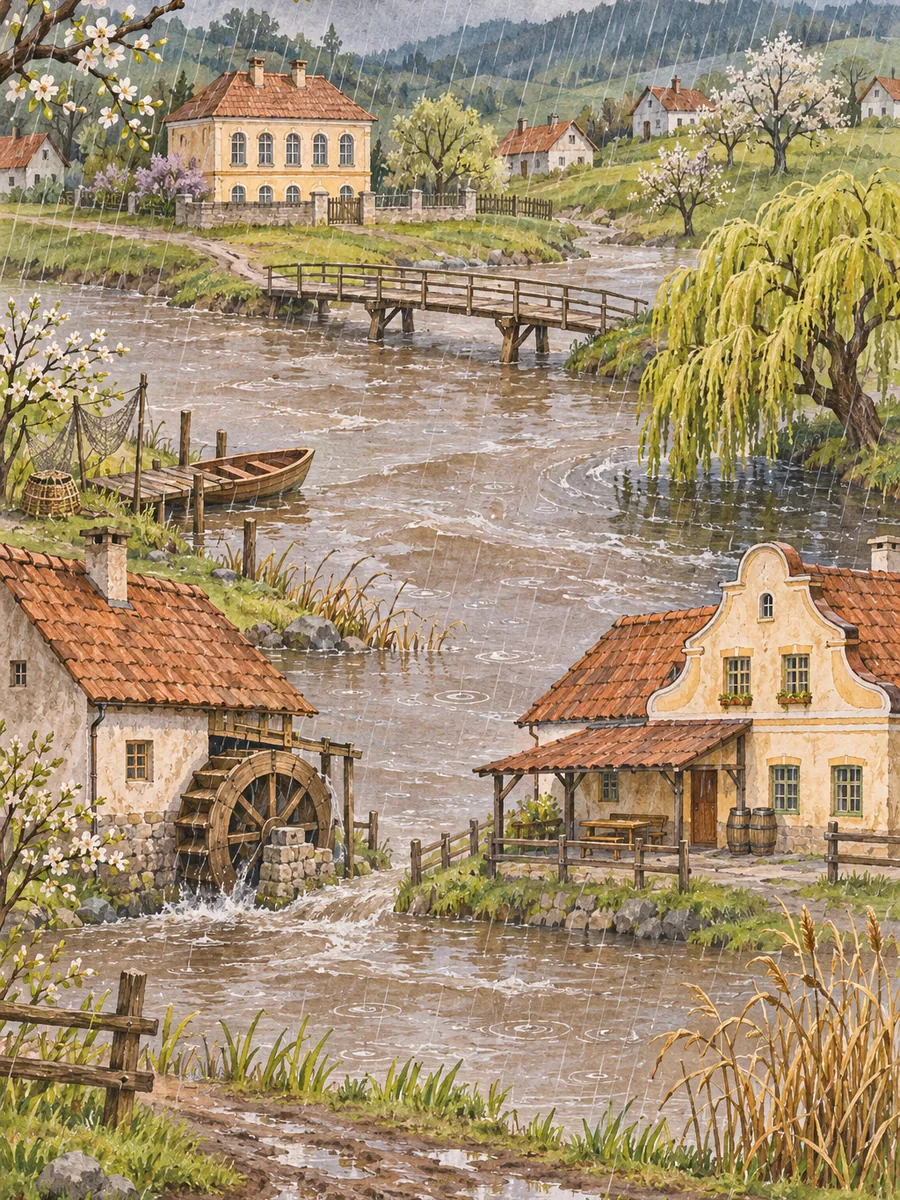
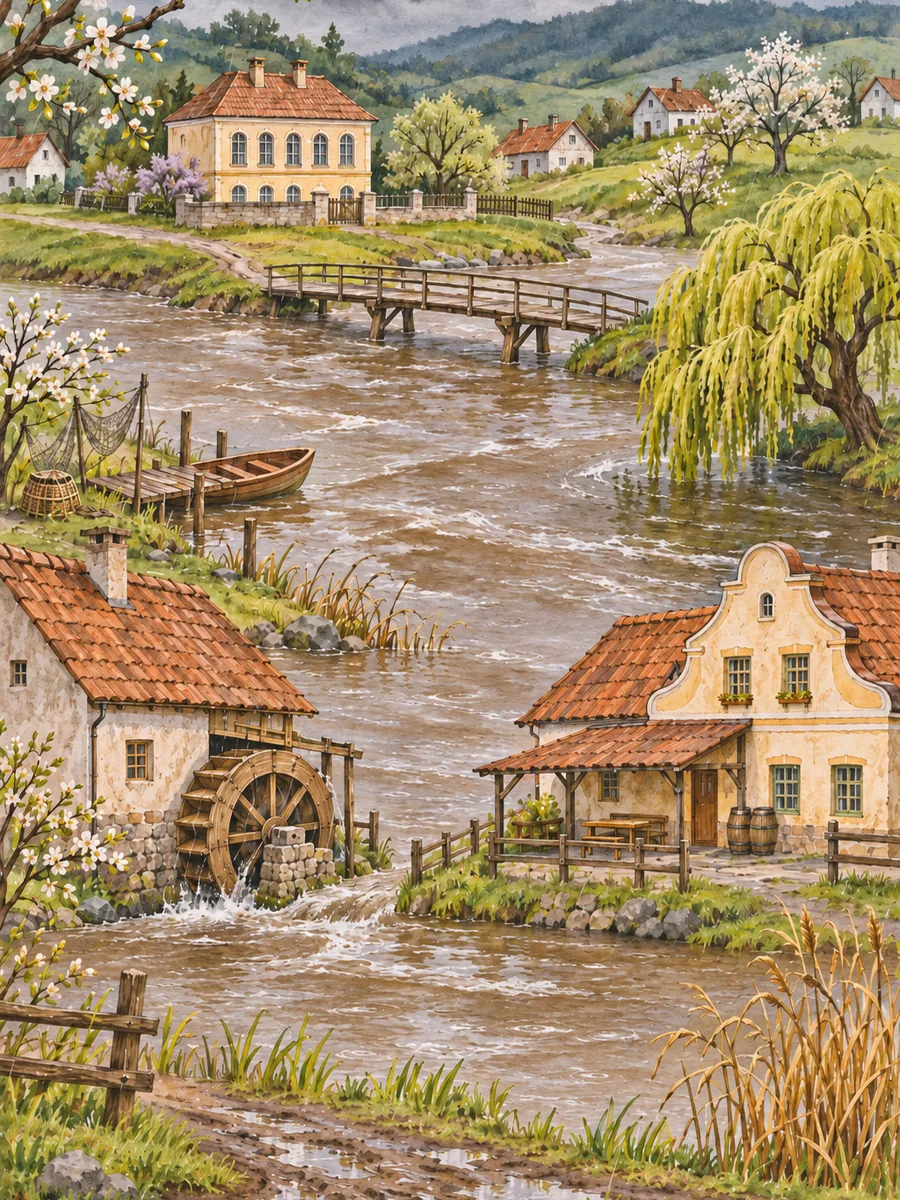
Painted story states for six villages, scorched smithy layer
Converts the images that replace the interim drawings found by the
appearance audit: new mill sails in Bezvětří, the rain-free Brodek scene
with three flood levels, the hot and the cold kettle in Čertovina, the
stone bridge in Cylindrov, the awake student in Faustův dům, and the fire
spreading roof to roof, the open fire station and the extinguished smithy
portrait in Floriánov. The replaced interim drawings are removed.

After the fire is put out, the Floriánov portrait shows a burnt smithy
but the scene showed an intact roof, so a new layer kovarna_ohorela
(condition uhaseno) adds a scorched roof. It is hidden in the painted
scene until kovarna_ohorela.png arrives.

Claude-Session: https://claude.ai/code/session_01GNaERCVCMNxDha3AsCqcsP

diff --git a/obrazky_vstup/florianov/prompty.md b/obrazky_vstup/florianov/prompty.md
@@ -14,9 +14,9 @@ Obec je na trase 4. V. Postup je stejný jako u Lhotky a podrobně je popsaný v
 
 ## Soubory
 
-Vygeneruj (6): `kovarna_hori.png`, `truhlarna_hori.png`, `chalupa_hori.png`, `fara_hori.png`, `zbrojnice_otevrena.png`, `kovarna_uhasena.png`
+Vygeneruj (1): `kovarna_ohorela.png`
 
-Už máš vygenerované (11): `pozadi.png`, `kovarna.png`, `truhlarna.png`, `chalupa.png`, `fara.png`, `studna.png`, `zvonice.png`, `florian.png`, `starosta.png`, `velitel.png`, `vedro.png`
+Už máš vygenerované (17): `pozadi.png`, `kovarna_hori.png`, `truhlarna_hori.png`, `chalupa_hori.png`, `fara_hori.png`, `zbrojnice_otevrena.png`, `kovarna.png`, `kovarna_uhasena.png`, `truhlarna.png`, `chalupa.png`, `fara.png`, `studna.png`, `zvonice.png`, `florian.png`, `starosta.png`, `velitel.png`, `vedro.png`
 
 Už jsou ve složce, zkopírované z jiných obcí (2): `dopis_starosta.png`, `klic.png`
 
@@ -41,6 +41,13 @@ Ke každému z těchhle promptů přilož svůj `pozadi.png` z téhle složky. C
 
 ```
 Edit the attached picture. Keep everything exactly the same: the composition, the style, the colours, the light and the position and size of every object. Change only this: the smithy at the top left is on fire: bright orange flames burst from its roof and thick grey smoke rises into the sky. Everything else stays as it is.
+Keep the same portrait size and aspect ratio. No people and no animals. No text, no letters, no numbers, no signature, no frame.
+```
+
+### kovarna_ohorela.png
+
+```
+Edit the attached picture. Keep everything exactly the same: the composition, the style, the colours, the light and the position and size of every object. Change only this: the fire at the smithy at the top left has just been put out: its roof is scorched black with some tiles missing and charred rafters showing, the walls under the roof are sooty and wet, a thin wisp of grey smoke still rises. Everything else stays as it is.
 Keep the same portrait size and aspect ratio. No people and no animals. No text, no letters, no numbers, no signature, no frame.
 ```
 

diff --git a/grafika.md b/grafika.md
@@ -35,14 +35,9 @@ Galerii všech vzhledů kreslených obcí vyrobí `node nastroje/stavy.mjs <obec
 
 ### Doplnit do hotových obcí
 
-Kontrola všech vzhledů (listopad 2026) ukázala místa, kde scéna neodpovídá příběhu. Prompty jsou v `prompty.md` jednotlivých obcí, do té doby hra ukazuje náhradní kresbu nebo odznak.
+Kontrola všech vzhledů (listopad 2026) ukázala místa, kde scéna neodpovídá příběhu. Prompty jsou v `prompty.md` jednotlivých obcí, do té doby hra ukazuje náhradní kresbu nebo odznak. Bezvětří, Brodek, Čertovina, Cylindrov, Faustův dům a Floriánov už jsou doplněné. Zbývá:
 
-- Bezvětří: `lopatky.png` (mlýn s novými lopatkami).
-- Brodek: napřed oprava `pozadi.png` (scéna bez namalovaného deště), pak z opravené scény `voda1.png`, `voda2.png`, `voda3.png` (stoupající povodeň).
-- Čertovina pod Kotlem: `plamen.png` (rozpálený kotel), `kotel_studeny.png` (vyhaslý kotel s jinovatkou).
-- Cylindrov: `most_stoji.png` (postavený kamenný most).
-- Faustův dům: `student_vzhuru.png` (probuzený student od sazí).
-- Floriánov: `kovarna_hori.png`, `truhlarna_hori.png`, `chalupa_hori.png`, `fara_hori.png` (požár přeskakuje), `zbrojnice_otevrena.png`, `kovarna_uhasena.png` (portrét po uhašení).
+- Floriánov: `kovarna_ohorela.png` (ohořelá střecha kovárny po uhašení, aby scéna seděla na portrét `kovarna_uhasena.png`).
 - Hejrupov: `maj_stoji.png`, pak z něj `hori.png` (hořící hranice), portréty `maj_vztycen.png` a `hranice_hori.png`.
 - Krakonošov: `bourka.png` (celá scéna v bouřce).
 - Myší Lhota: `slapoty.png` (obří šlápota a rozšlápnutý plot).

diff --git a/obrazky_vstup/cylindrov/prompty.md b/obrazky_vstup/cylindrov/prompty.md
@@ -14,9 +14,9 @@ Obec je na trase 19. IX. Postup je stejný jako u Lhotky a podrobně je popsaný
 
 ## Soubory
 
-Vygeneruj (1): `most_stoji.png`
+Vygeneruj (0): nic, všechno je hotové
 
-Už máš vygenerované (20): `pozadi.png`, `kouzelnik.png`, `farar.png`, `kominik.png`, `klobouk.png`, `babicka.png`, `tonda.png`, `potok.png`, `hulka.png`, `pulka.png`, `lzice.png`, `kytka.png`, `nitka.png`, `kridlo.png`, `mydlo.png`, `klic.png`, `mic.png`, `kost.png`, `host.png`, `most.png`
+Už máš vygenerované (21): `pozadi.png`, `kouzelnik.png`, `farar.png`, `kominik.png`, `klobouk.png`, `babicka.png`, `tonda.png`, `potok.png`, `hulka.png`, `pulka.png`, `lzice.png`, `kytka.png`, `nitka.png`, `kridlo.png`, `mydlo.png`, `klic.png`, `mic.png`, `kost.png`, `host.png`, `most.png`, `most_stoji.png`
 
 Už jsou ve složce, zkopírované z jiných obcí (2): `pes.png`, `svice.png`
 

diff --git a/obrazky_vstup/krakonosov/prompty.md b/obrazky_vstup/krakonosov/prompty.md
@@ -16,7 +16,7 @@ Obec je na trase 20. VIII. Postup je stejný jako u Lhotky a podrobně je popsan
 
 ## Soubory
 
-Vygeneruj (15): `pozadi.png`, `babka.png`, `statkar.png`, `statkar_strach.png`, `statkar_destnik.png`, `houbar.png`, `uhlir.png`, `pekar.png`, `hospoda.png`, `stiznost.png`, `odpoved.png`, `balik_houbar.png`, `dopis_uhlir.png`, `pohled_poutnik.png`, `chleba.png`
+Už máš vygenerované (15): `pozadi.png`, `babka.png`, `statkar.png`, `statkar_strach.png`, `statkar_destnik.png`, `houbar.png`, `uhlir.png`, `pekar.png`, `hospoda.png`, `stiznost.png`, `odpoved.png`, `balik_houbar.png`, `dopis_uhlir.png`, `pohled_poutnik.png`, `chleba.png`
 
 Už jsou ve složce, zkopírované z jiných obcí (2): `poutnik.png`, `vrbuv_dopis.png`
 

diff --git a/obrazky_vstup/certovina/prompty.md b/obrazky_vstup/certovina/prompty.md
@@ -10,9 +10,9 @@ Obec je na trase 29. I. Postup je stejný jako u Lhotky a podrobně je popsaný 
 
 ## Soubory
 
-Vygeneruj (2): `plamen.png`, `kotel_studeny.png`
+Vygeneruj (0): nic, všechno je hotové
 
-Už máš vygenerované (11): `pozadi.png`, `andel.png`, `lucifer.png`, `kotel.png`, `bertka.png`, `bonifac.png`, `duchod_l.png`, `prihlaska.png`, `uhli1.png`, `zadost_v.png`, `doporuceni.png`
+Už máš vygenerované (13): `pozadi.png`, `plamen.png`, `kotel_studeny.png`, `andel.png`, `lucifer.png`, `kotel.png`, `bertka.png`, `bonifac.png`, `duchod_l.png`, `prihlaska.png`, `uhli1.png`, `zadost_v.png`, `doporuceni.png`
 
 Už jsou ve složce, zkopírované z jiných obcí (1): `zadost.png`
 

diff --git a/obrazky_vstup/brodek/prompty.md b/obrazky_vstup/brodek/prompty.md
@@ -10,9 +10,9 @@ Obec je na trase 12. IV. Postup je stejný jako u Lhotky a podrobně je popsaný
 
 ## Soubory
 
-Vygeneruj (3): `voda1.png`, `voda2.png`, `voda3.png`
+Vygeneruj (0): nic, všechno je hotové
 
-Už máš vygenerované (10): `pozadi.png`, `ucitelka.png`, `rybar.png`, `vodnik.png`, `mlynar.png`, `hostinska.png`, `kachna.png`, `holinky.png`, `psani.png`, `sadlo.png`
+Už máš vygenerované (13): `pozadi.png`, `voda1.png`, `voda2.png`, `voda3.png`, `ucitelka.png`, `rybar.png`, `vodnik.png`, `mlynar.png`, `hostinska.png`, `kachna.png`, `holinky.png`, `psani.png`, `sadlo.png`
 
 Oprav úpravou (1): `pozadi.png`, postup je v sekci „Oprava scény“.
 

diff --git a/obrazky_vstup/faust/prompty.md b/obrazky_vstup/faust/prompty.md
@@ -10,9 +10,9 @@ Obec je na trase 13. XI. Postup je stejný jako u Lhotky a podrobně je popsaný
 
 ## Soubory
 
-Vygeneruj (1): `student_vzhuru.png`
+Vygeneruj (0): nic, všechno je hotové
 
-Už máš vygenerované (10): `pozadi.png`, `kominik.png`, `vdova.png`, `student.png`, `kos.png`, `domovnice.png`, `zednik.png`, `dopis_vdova.png`, `stetky.png`, `ucebnice.png`
+Už máš vygenerované (11): `pozadi.png`, `kominik.png`, `vdova.png`, `student.png`, `student_vzhuru.png`, `kos.png`, `domovnice.png`, `zednik.png`, `dopis_vdova.png`, `stetky.png`, `ucebnice.png`
 
 Už jsou ve složce, zkopírované z jiných obcí (2): `dopis_domovnice.png`, `tolar.png`
 

diff --git a/obrazky_vstup/mysi/prompty.md b/obrazky_vstup/mysi/prompty.md
@@ -16,7 +16,7 @@ Obec je na trase 6. IX. Postup je stejný jako u Lhotky a podrobně je popsaný 
 
 ## Soubory
 
-Vygeneruj (12): `pozadi.png`, `starosta.png`, `starosta_slavi.png`, `krejcova.png`, `krejcova_vana.png`, `studna.png`, `deti.png`, `kocour.png`, `balik.png`, `dopis_kocour.png`, `dopisek.png`, `syr.png`
+Už máš vygenerované (12): `pozadi.png`, `starosta.png`, `starosta_slavi.png`, `krejcova.png`, `krejcova_vana.png`, `studna.png`, `deti.png`, `kocour.png`, `balik.png`, `dopis_kocour.png`, `dopisek.png`, `syr.png`
 
 Už jsou ve složce, zkopírované z jiných obcí (1): `dopis.png`
 

diff --git a/obrazky_vstup/bezvetri/prompty.md b/obrazky_vstup/bezvetri/prompty.md
@@ -10,9 +10,9 @@ Obec je na trase 4. X. Postup je stejný jako u Lhotky a podrobně je popsaný v
 
 ## Soubory
 
-Vygeneruj (1): `lopatky.png`
+Vygeneruj (0): nic, všechno je hotové
 
-Už máš vygenerované (9): `pozadi.png`, `kohout.png`, `mlynar.png`, `starosta.png`, `pradlena.png`, `deti.png`, `vitr.png`, `plachta.png`, `drak.png`
+Už máš vygenerované (10): `pozadi.png`, `lopatky.png`, `kohout.png`, `mlynar.png`, `starosta.png`, `pradlena.png`, `deti.png`, `vitr.png`, `plachta.png`, `drak.png`
 
 Už jsou ve složce, zkopírované z jiných obcí (1): `dopis.png`
 
